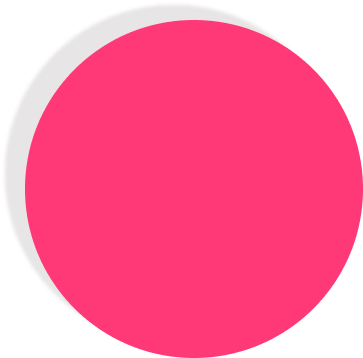
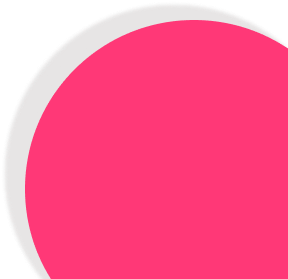
terminado a tela

Changed region(s): [[0.0, 0.0, 1.0, 1.0], [0.5625, 0.5735, 1.0, 1.0]]

diff --git a/projetos-HTML-e-CSS/projeto-4/css/style-edicao-perfil.css b/projetos-HTML-e-CSS/projeto-4/css/style-edicao-perfil.css
@@ -11,7 +11,8 @@
 .card {
     background-color: #F4F4F4;
     border-radius: 10px;
-    width: 1000px;
+    max-width: 1000px;
+    width: auto;
     box-shadow: 0px 0px 10px 0px rgba(0, 0, 0, 0.5);
 }
 
@@ -79,12 +80,13 @@
     width: 55%;
     height: auto;
     border-right: 3px solid rgba(0, 0, 0, 0.15);
+    padding-left: 15px;
 }
 
 .content {
     margin-top: 10px;
     width: 200px;
-    padding-left: 15px;
+    
 }
 
 .content-nome {
@@ -104,7 +106,7 @@
 
 .content-sobre-empresa {
     gap: 10px;
-    width: 500px;
+    width: 90%;
     margin-top: 10px;
 }
 
@@ -114,6 +116,7 @@
 
 .title-sobre-empresa {
     display: inline;
+
 }
 
 .btn-empresa {
@@ -123,6 +126,7 @@
 
 .content-text {
     font-size: 0.6rem;
+    width: 100%;
 }
 
 
@@ -148,28 +152,25 @@
 }
 
 .sobre .content-pagamento .list-pagamento {
-    list-style: disc;
+    list-style: none;
     margin-left: 5px;
     width: 180px;
     display: flex;
     align-items: center;
-    /* background-color: #5CB74A; */
-    /* justify-content: center; */
     flex-wrap: wrap;
     gap: 10px;
 }
 
 .sobre .content-pagamento .list-pagamento li {
     font-size: 0.8rem;
-    text-decoration: dashed;
 }
 
 .info-pessoais {
     width: 45%;
-    height: auto;
+    height: 100%;
     display: flex;
     flex-direction: column;
-    padding: 10px 25px;
+    padding: 15px 25px;
 }
 
 .content-pessoais {
@@ -187,6 +188,8 @@
 }
 
 .content-galeria {
+    max-width: 500px;
+    width: 100%;
     margin-top: 15px;
     padding: 10px 0px;
     margin-bottom: 5px;
@@ -199,7 +202,8 @@
 }
 
 .galeria {
-    width: 300px;
+    max-width: 300px;
+    width: 100%;
     display: flex;
     align-items: center;
     justify-content: center;
@@ -210,6 +214,64 @@
 }
 
 .img-galeria {
-    width: 300px;
+    max-width: 300px;
+    width: 100%;
     border-radius: 10px;
+}
+
+@media screen and (max-width: 1050px) {
+    .name {
+        font-size: 1rem;
+    }
+
+    .img-btn-editar {
+        width: 10px;
+    }
+
+    .content-title {
+        font-size: 0.8rem;
+    }
+    .content-text {
+        font-size: 0.7rem;
+    }
+
+    .list-pagamento li {
+        font-size: 0.6rem;
+    }
+
+    .title-galeria {
+        font-size: 1rem;
+    }
+}
+
+@media screen and (max-width: 650px) {
+    .informacoes {
+        flex-direction: column;
+        align-items: center;
+        justify-content: center;
+        margin-top: 0px;
+    }
+    .foto-perfil {
+        width: 100px;
+        height: 100px;
+        margin-top: -25px;
+    }
+
+    .foto-perfil .img-perfil {
+        width: 90px;
+    }
+
+    .sobre {
+        width: 100%;
+        border: none;
+    }
+
+    .info-pessoais {
+        width: 100%;
+        padding-left: 15px;
+    }
+
+    .content-nome {
+        margin-left: 0px;
+    }
 }

diff --git a/projetos-HTML-e-CSS/projeto-4/css/style-modelo.css b/projetos-HTML-e-CSS/projeto-4/css/style-modelo.css
@@ -16,13 +16,15 @@ body {
 
 .principal {
     width: 100vw;
-    min-height: calc(100vh - 130px);
+    min-height: calc(99vh - 100px);
+    /* margin-top: -50px; */
     z-index: 1;
+    padding-top: 50px;
 }
 
 .principal .box {
     width: 90%;
-    height: 90%;
+    height: 100%;
     background-color: rgba(248, 245, 246, 0.65);
     margin: auto;
     margin-top: 40px;
@@ -40,32 +42,25 @@ body {
     backdrop-filter: blur(20px);    
 } */
 
-/* .bolas-fundo {
-    width: 100vw;
-    min-height: calc(100vh - 130px);
-    position: relative;
-    top: -90vh;
-    z-index: -3;
-} */
 
 .bola-verde1 {
     position: absolute;
-    left: -40px;
+    left: 0px;
     top: 15vh;
     z-index: -3;
 }
 
 .bola-verde2 {
     position: absolute;
-    right: -50px;
+    right: 0px;
     top: 15vh;
     z-index: -3;
 }
 
 .bola-rosa {
     position: absolute;
-    right: -100px;
-    bottom: -100px;
+    right: 0px;
+    bottom: 0px;
     z-index: -3;
 }
 
@@ -128,33 +123,41 @@ body {
 }
 
 @media(max-width: 1050px) {
-    .bolas-fundo .bola-verde1{
+    .bola-verde1{
         width: 80px;
-        left: -20px;
+        left: 0px;
     }
 
-    .bolas-fundo .bola-verde2 {
+    .bola-verde2 {
         width: 90px;
-        right: -25px;
+        right: 0px;
     }
 
-    .bolas-fundo .bola-rosa {
+    .bola-rosa {
         width: 200px;
-        right: -50px;
-        bottom: -50px;
+        right: 0px;
+        bottom: 0px;
     }
 }
 
 @media(max-width: 650px) {
-    .bolas-fundo .bola-verde1{
+    .bola-verde1{
         display: none;
     }
 
-    .bolas-fundo .bola-verde2 {
+    .bola-verde2 {
         display: none;
     }
 
-    .bolas-fundo .bola-rosa {
+    .bola-rosa {
         display: none;
+    }
+
+    .btn-cancelar-salvar .btn  {
+        width: 90px;
+    }
+
+    .btn-cancelar-salvar .btn a  {
+        font-size: 1rem;
     }
 }

diff --git a/projetos-HTML-e-CSS/projeto-4/edicao-perfil-expositor/edicao-perfil-expositor.html b/projetos-HTML-e-CSS/projeto-4/edicao-perfil-expositor/edicao-perfil-expositor.html
@@ -52,12 +52,12 @@
 
                             <div class="content content-cate-venda">
                                 <h2 class="content-title">Categoria de Venda</h2>
-                                <p>Artesanatos</p>
+                                <p class="content-text">Artesanatos</p>
                             </div>
 
                             <div class="content content-numero-barraca">
                                 <h2 class="content-title">Número da Barraca</h2>
-                                <p>89</p>
+                                <p class="content-text">89</p>
                             </div>
 
                             <div class="content content-cor-rua">
